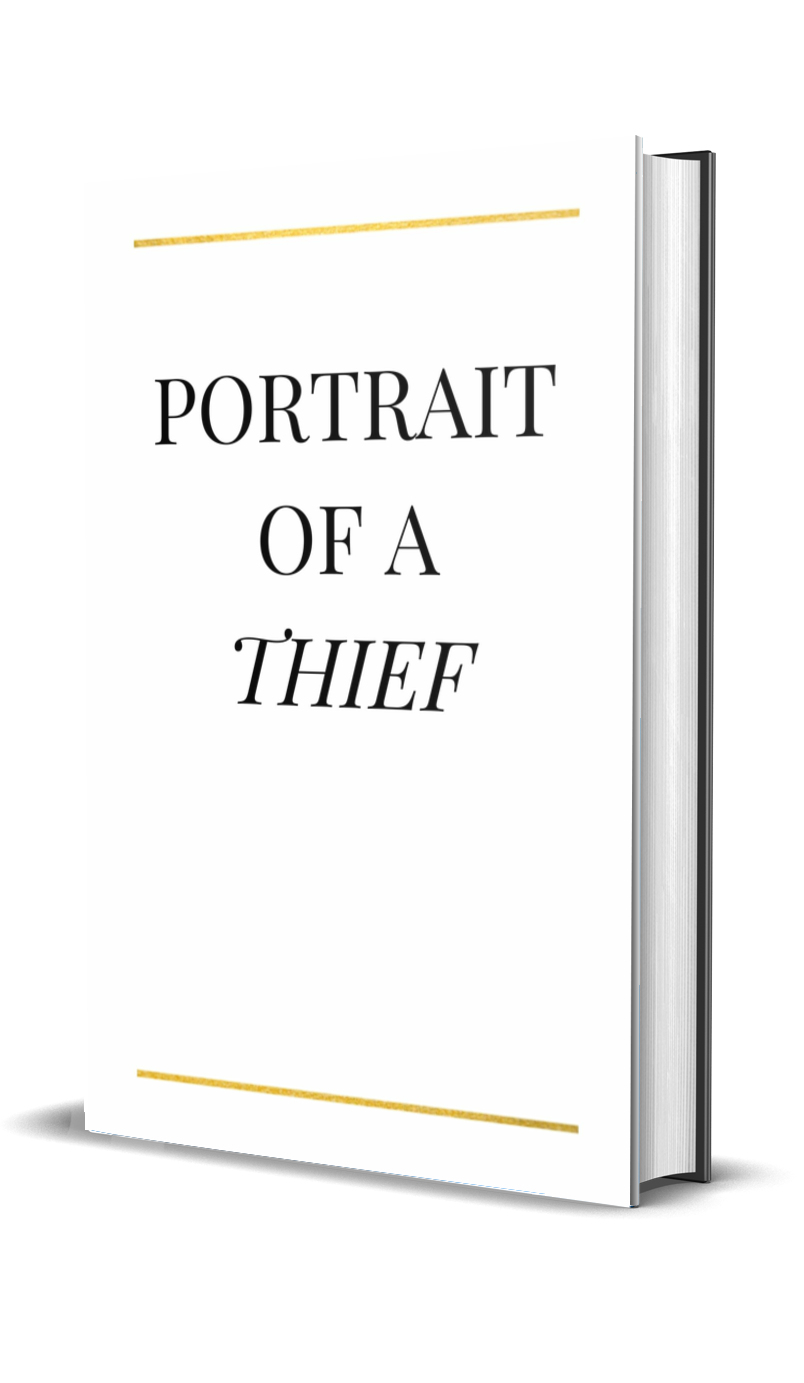
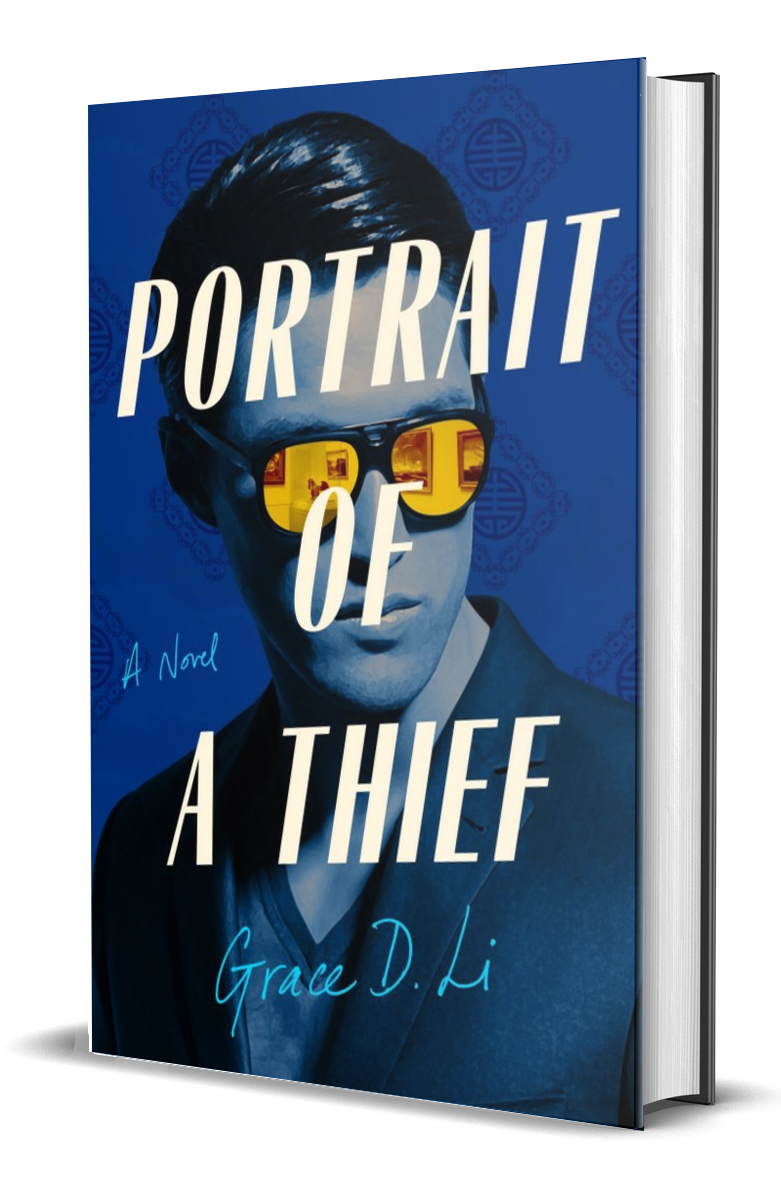
Update book cover

diff --git a/press-kit.html b/press-kit.html
@@ -45,8 +45,8 @@
                   <p style="text-align:center;"><small><a href="./assets/img/GraceLi_Profile_2.jpg" class="text-link" download>Download hi-res photo</a></small> | <small>Photo by Yi Li</small></p>
                 </div>
                 <div class="col col-12 col-sm-6">
-                  <img class="card-img" style="object-fit:cover;height:100%;padding:10px; border-radius: 20px;" src="assets/img/book_cover.jpeg">
-                  <p style="text-align:center;"><small><a href="./assets/img/book_cover.jpeg" class="text-link" download>Download hi-res photo</a></small> | <small>Cover to come</small></p>
+                  <img class="card-img" style="object-fit:cover;height:100%;padding:10px; border-radius: 20px;" src="assets/img/book_cover.jpg">
+                  <p style="text-align:center;"><small><a href="./assets/img/book_cover.jpg" class="text-link" download>Download hi-res photo</a></small> | <small>Cover to come</small></p>
                 </div>
               </div>
               <br/>

diff --git a/index.html b/index.html
@@ -38,7 +38,7 @@
             <br/>
           </div>
           <div class="col-sm-6">
-            <img src="./assets/img/book_mockup_2.png" alt="..." id="book-mockup" style="max-width:100%;">
+            <img src="./assets/img/book_mockup.png" alt="..." id="book-mockup" style="max-width:100%;">
           </div>
         </div>
         <div class="card neu" style=width:100%;><div class="card-body">
